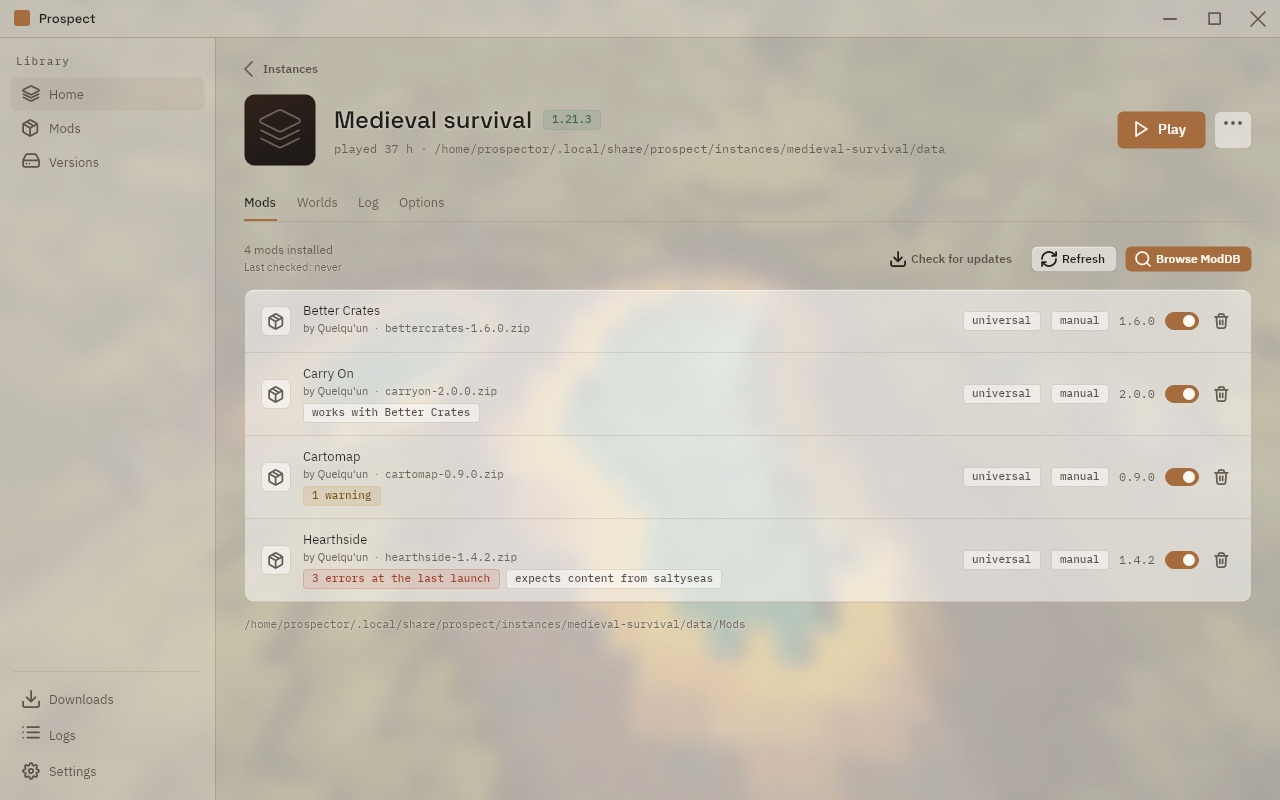
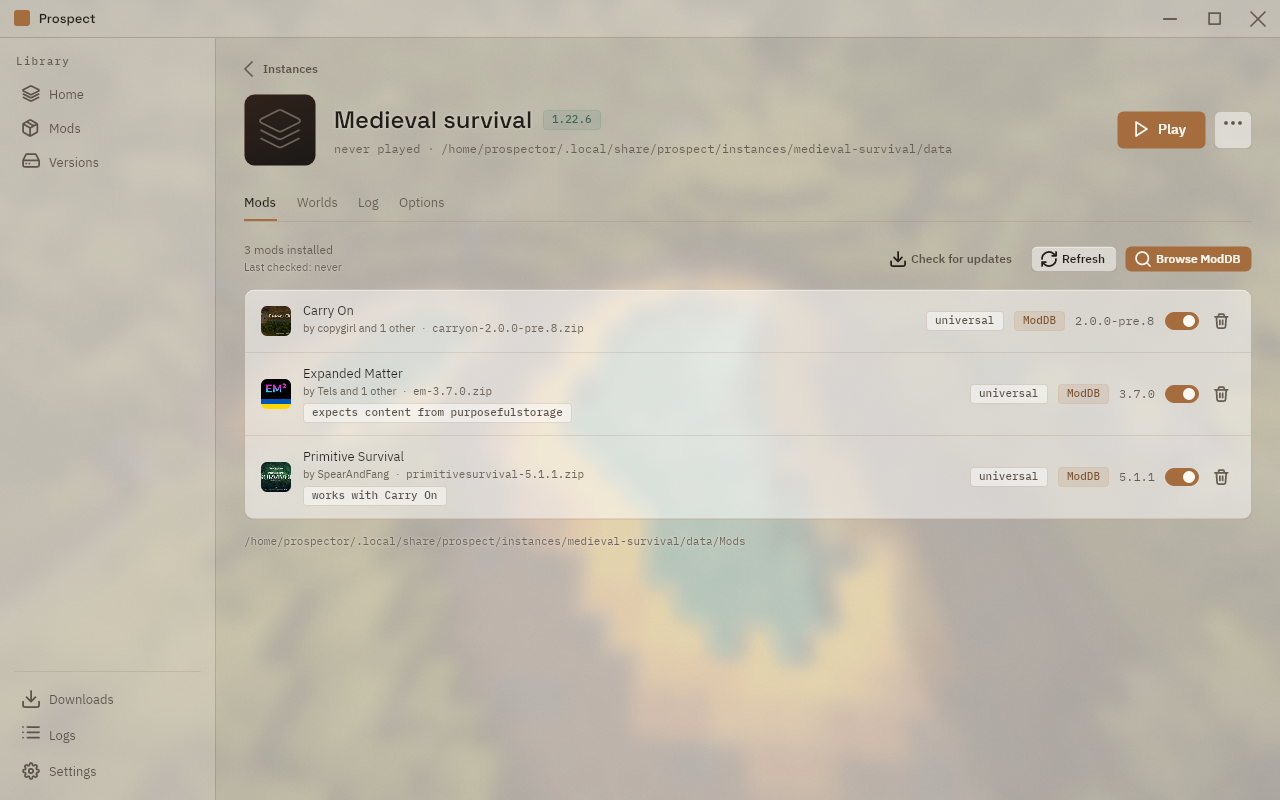
feat: show the compatible-content badges with real mods (#15)
The owner's own screenshot of the Mods tab was more convincing than
ours: real mods, real badges. This replaces the seeded shot with a live
one and makes the landing page name the system.

## The capture

Four images (fr/en, dark/light, 1280x800), taken through a throwaway
live harness: the real composition root, the real ModDB over the real
network, one real instance on 1.22.6 with three mods installed through
the real install service. The rows now carry real names, real authors,
real filenames, real logos and a ModDB origin chip instead of "manual".

The three mods were picked so the two static badges come out and nothing
else does:

- **Primitive Survival** patches Carry On
(`assets/primitivesurvival/patches/ps-carryon.json`, a conditional
patch) and Carry On is installed, so its integration resolves: **"works
with Carry On"**.
- **Expanded Matter** patches purposefulstorage unconditionally
(`assets/em/compatibility/purposefulstorage/patches/ps_storagebin.json`),
never declares it as a dependency, and it is not installed: **"expects
content from purposefulstorage"**.
- **Carry On** itself only carries conditional patches whose targets are
absent, so it stays silent, which is the ordinary case.

Neither badge needed a game launch. Both are read straight out of the
zips. The launch-log badges (errors, warnings) would need a real session
and are not in this shot.

## The copy

The ModDB card gains one sentence naming both badges verbatim, in both
[…]

diff --git a/src/i18n/landing.ts b/src/i18n/landing.ts
@@ -88,7 +88,7 @@ export const en: LandingStrings = {
 			{
 				icon: 'package',
 				title: 'The ModDB, dependencies included',
-				text: 'Search the official ModDB, read a mod’s page as its author wrote it, and pick the exact version you install. When a mod needs another one, Prospect proposes it, and never installs anything behind your back.',
+				text: 'Search the official ModDB, read a mod’s page as its author wrote it, and pick the exact version you install. The Mods tab then says what mods expect of each other: “works with Carry On”, or “expects content from” a mod that is missing. When a mod needs another one, Prospect proposes it, and never installs anything behind your back.',
 			},
 			{
 				icon: 'activity',
@@ -111,8 +111,8 @@ export const en: LandingStrings = {
 			},
 			{
 				src: 'instance-mods.png',
-				caption: 'An instance, Mods tab',
-				alt: 'Instance page on its Mods tab: enable toggles and last-launch verdict badges, next to the Worlds, Log and Options tabs',
+				caption: 'An instance, Mods tab (what works with what)',
+				alt: 'Instance page on its Mods tab: three real ModDB mods, Primitive Survival badged “works with Carry On” and Expanded Matter badged “expects content from purposefulstorage”, next to the Worlds, Log and Options tabs',
 			},
 			{
 				src: 'navigateur-moddb.png',
@@ -201,7 +201,7 @@ export const fr: LandingStrings = {
 			{
 				icon: 'package',
 				title: 'Le ModDB, dépendances comprises',
-				text: 'Cherche sur le ModDB officiel, lis la fiche d’un mod telle que son auteur l’a écrite, et choisis la version exacte que tu installes. Quand un mod en réclame un autre, Prospect le propose, et n’installe jamais rien dans ton dos.',
+				text: 'Cherche sur le ModDB officiel, lis la fiche d’un mod telle que son auteur l’a écrite, et choisis la version exacte que tu installes. L’onglet Mods dit ensuite ce que les mods attendent les uns des autres : « fonctionne avec Carry On », ou « attend du contenu de » un mod absent. Quand un mod en réclame un autre, Prospect le propose, et n’installe jamais rien dans ton dos.',
 			},
 			{
 				icon: 'activity',
@@ -224,8 +224,8 @@ export const fr: LandingStrings = {
 			},
 			{
 				src: 'instance-mods.png',
-				caption: 'Une instance, onglet Mods',
-				alt: 'Page d’instance, onglet Mods : interrupteurs d’activation et pastilles de verdict du dernier lancement, à côté des onglets Mondes, Journal et Options',
+				caption: 'Une instance, onglet Mods (qui fonctionne avec qui)',
+				alt: 'Page d’instance, onglet Mods : trois vrais mods du ModDB, Primitive Survival portant la pastille « fonctionne avec Carry On » et Expanded Matter la pastille « attend du contenu de purposefulstorage », à côté des onglets Mondes, Journal et Options',
 			},
 			{
 				src: 'navigateur-moddb.png',

diff --git a/src/content/docs/fr/mods.md b/src/content/docs/fr/mods.md
@@ -51,10 +51,12 @@ Launcher, qui ne proposait qu'installer, mettre à jour ou supprimer.
 
 L'onglet Mods d'une instance relit le [journal de lancement](../logs/). Un mod qui a échoué
 porte une pastille (« 3 erreurs au dernier lancement ») avec les lignes en cause
-dans son infobulle, et un mod dont l'intégration avec un autre a fonctionné dit
-« fonctionne avec X ». Et quand un mod cherche le contenu d'un autre qui n'est
-pas installé, sans l'avoir déclaré en dépendance, la pastille « attend du
-contenu de Y » le dit : un signal pour toi, jamais un blocage. Un mod sain
-n'affiche rien, et c'est le cas ordinaire.
+dans son infobulle. Deux autres pastilles n'attendent rien du tout : Prospect lit
+ce que les archives annoncent elles-mêmes, donc elles sont là dès l'installation.
+Un mod dont l'intégration avec un autre mod installé a fonctionné dit
+« fonctionne avec X », et un mod qui cherche le contenu d'un autre qui n'est pas
+installé, sans l'avoir déclaré en dépendance, dit « attend du contenu de Y » :
+un signal pour toi, jamais un blocage. Un mod sain n'affiche rien, et c'est le
+cas ordinaire.
 Vérifier les mises à jour rend son verdict avec la même netteté, y compris quand
 tout est à jour.

diff --git a/src/content/docs/mods.md b/src/content/docs/mods.md
@@ -49,9 +49,11 @@ update and delete.
 ## After a launch, the verdict
 
 The instance's Mods tab reads the [launch log](../logs/) back. A mod that failed carries a
-badge ("3 errors at the last launch") with the offending lines in its tooltip,
-and a mod whose integration with another one resolved says "works with X". And when a mod
-looks for content from another one that is not installed, without declaring it
-as a dependency, the "waiting on content from Y" badge says so: a signal for
-you, never a blocker. A healthy mod shows nothing, which is the ordinary case. Checking for updates
+badge ("3 errors at the last launch") with the offending lines in its tooltip.
+Two other badges wait for nothing: Prospect reads what the archives themselves
+declare, so they are there from the moment a mod is installed. A mod whose
+integration with another installed mod resolved says "works with X", and a mod
+that reaches for content from one that is not installed, without declaring it as
+a dependency, says "expects content from Y": a signal for you, never a blocker.
+A healthy mod shows nothing, which is the ordinary case. Checking for updates
 states its verdict just as plainly, including that everything is up to date.
